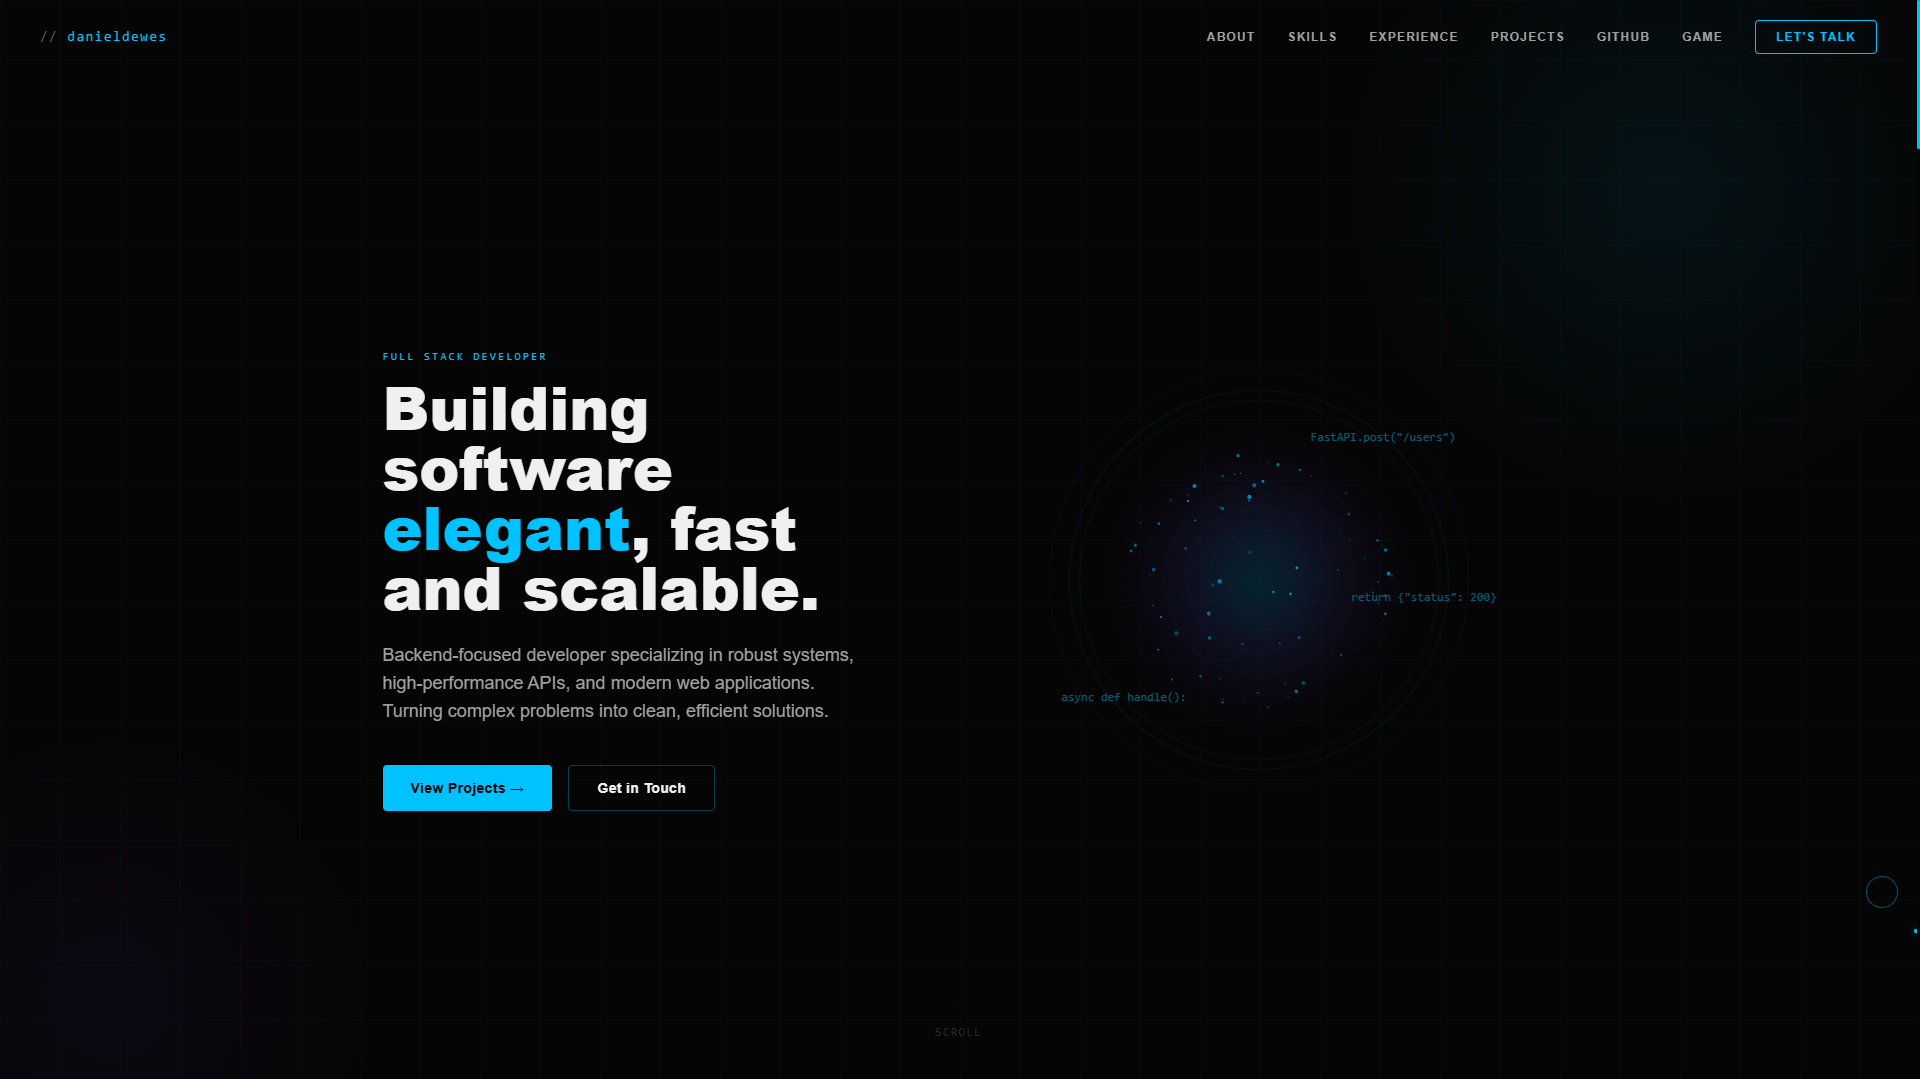
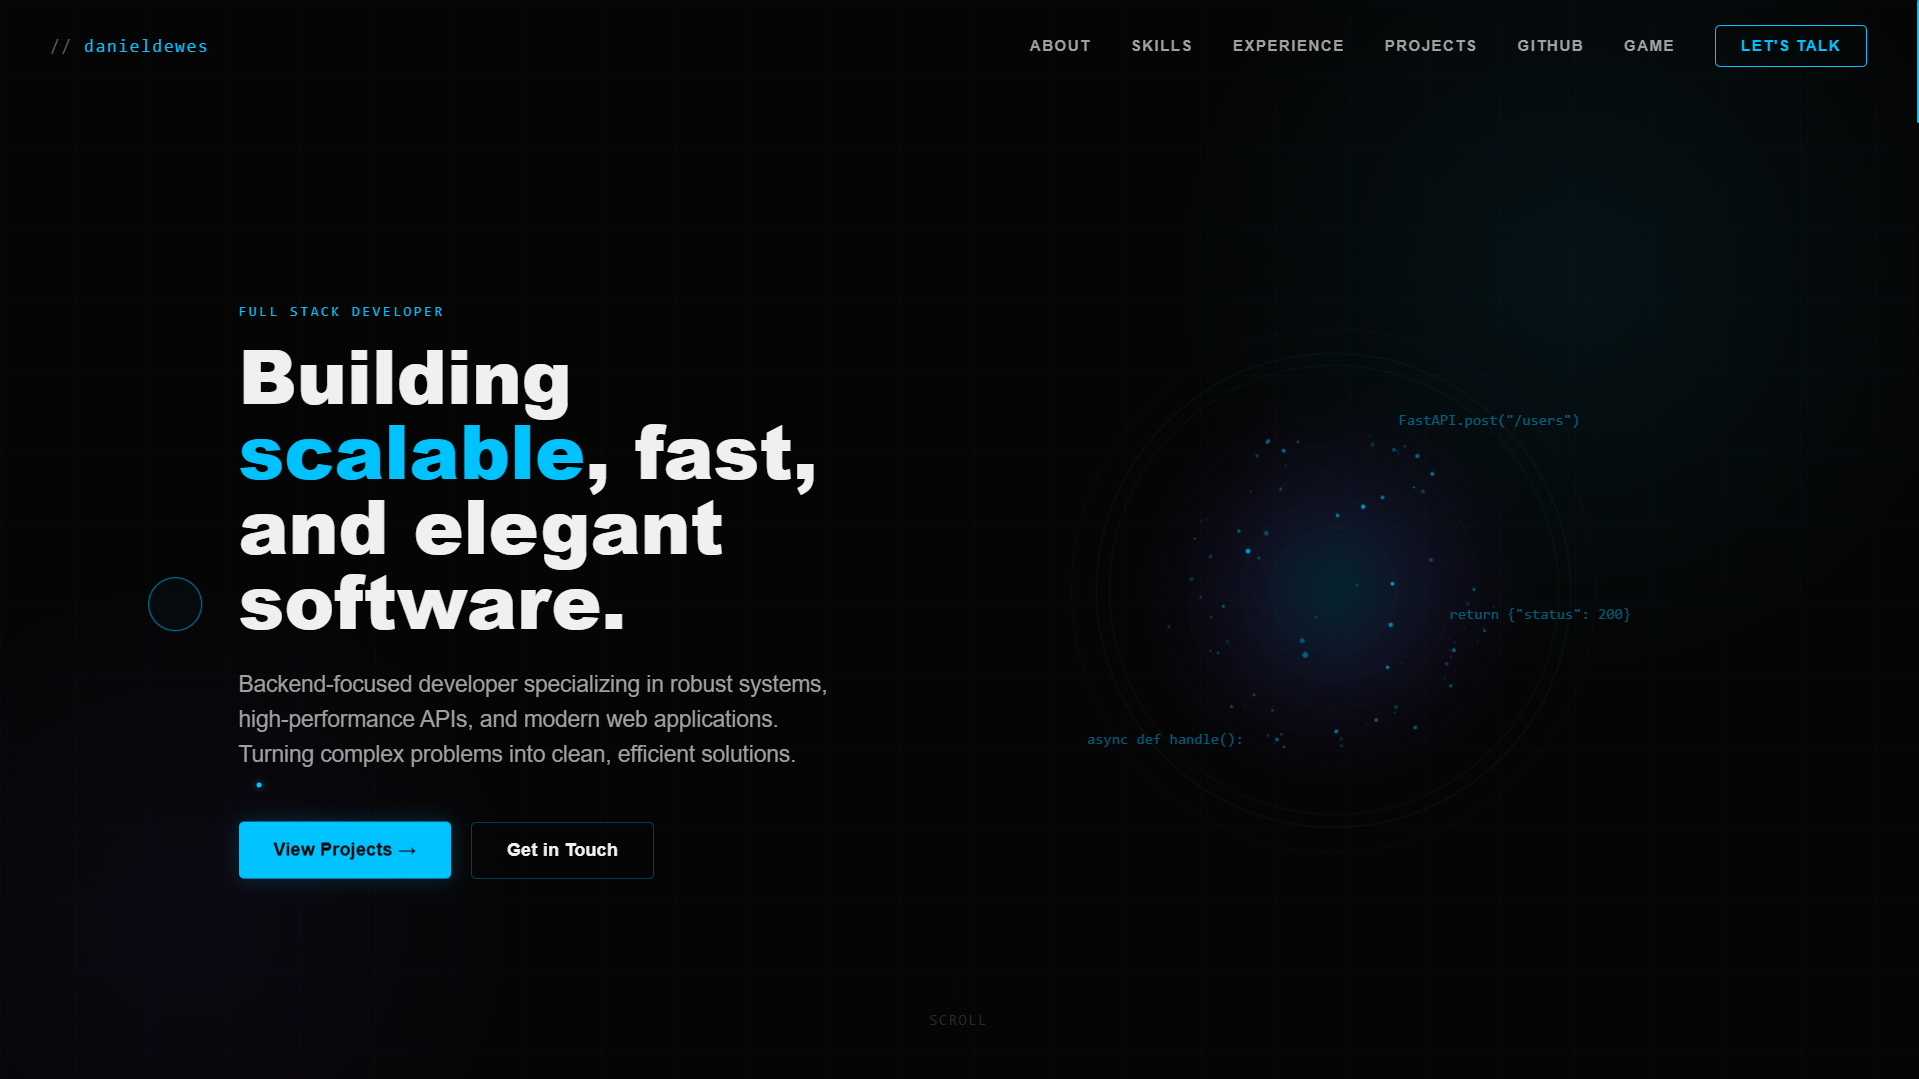
changing hero section

diff --git a/src/components/Hero/index.jsx b/src/components/Hero/index.jsx
@@ -162,9 +162,9 @@ export default function Hero() {
             custom={1} variants={fadeUp} initial="hidden" animate="show"
             className="text-5xl md:text-6xl font-extrabold leading-tight mb-6 font-sora"
           >
-            Building software{' '}
-            <span style={{ color: 'var(--accent)' }}>elegant</span>, fast{' '}
-            and scalable.
+            Building{' '}
+            <span style={{ color: 'var(--accent)' }}>scalable</span>, fast,{' '}
+            and elegant software.
           </motion.h1>
 
           <motion.p

diff --git a/src/data/portfolio.js b/src/data/portfolio.js
@@ -1,7 +1,7 @@
 export const personalInfo = {
   name: 'Daniel Dewes',
   role: 'Full Stack Developer',
-  tagline: 'Building software elegant, fast and scalable.',
+  tagline: 'Building fast, scalable, and elegant software.',
   subtitle:
     'Backend-focused developer specializing in robust systems, high-performance APIs, and modern web applications. Turning complex problems into clean, efficient solutions.',
   github: 'https://github.com/DanielSDewes',
